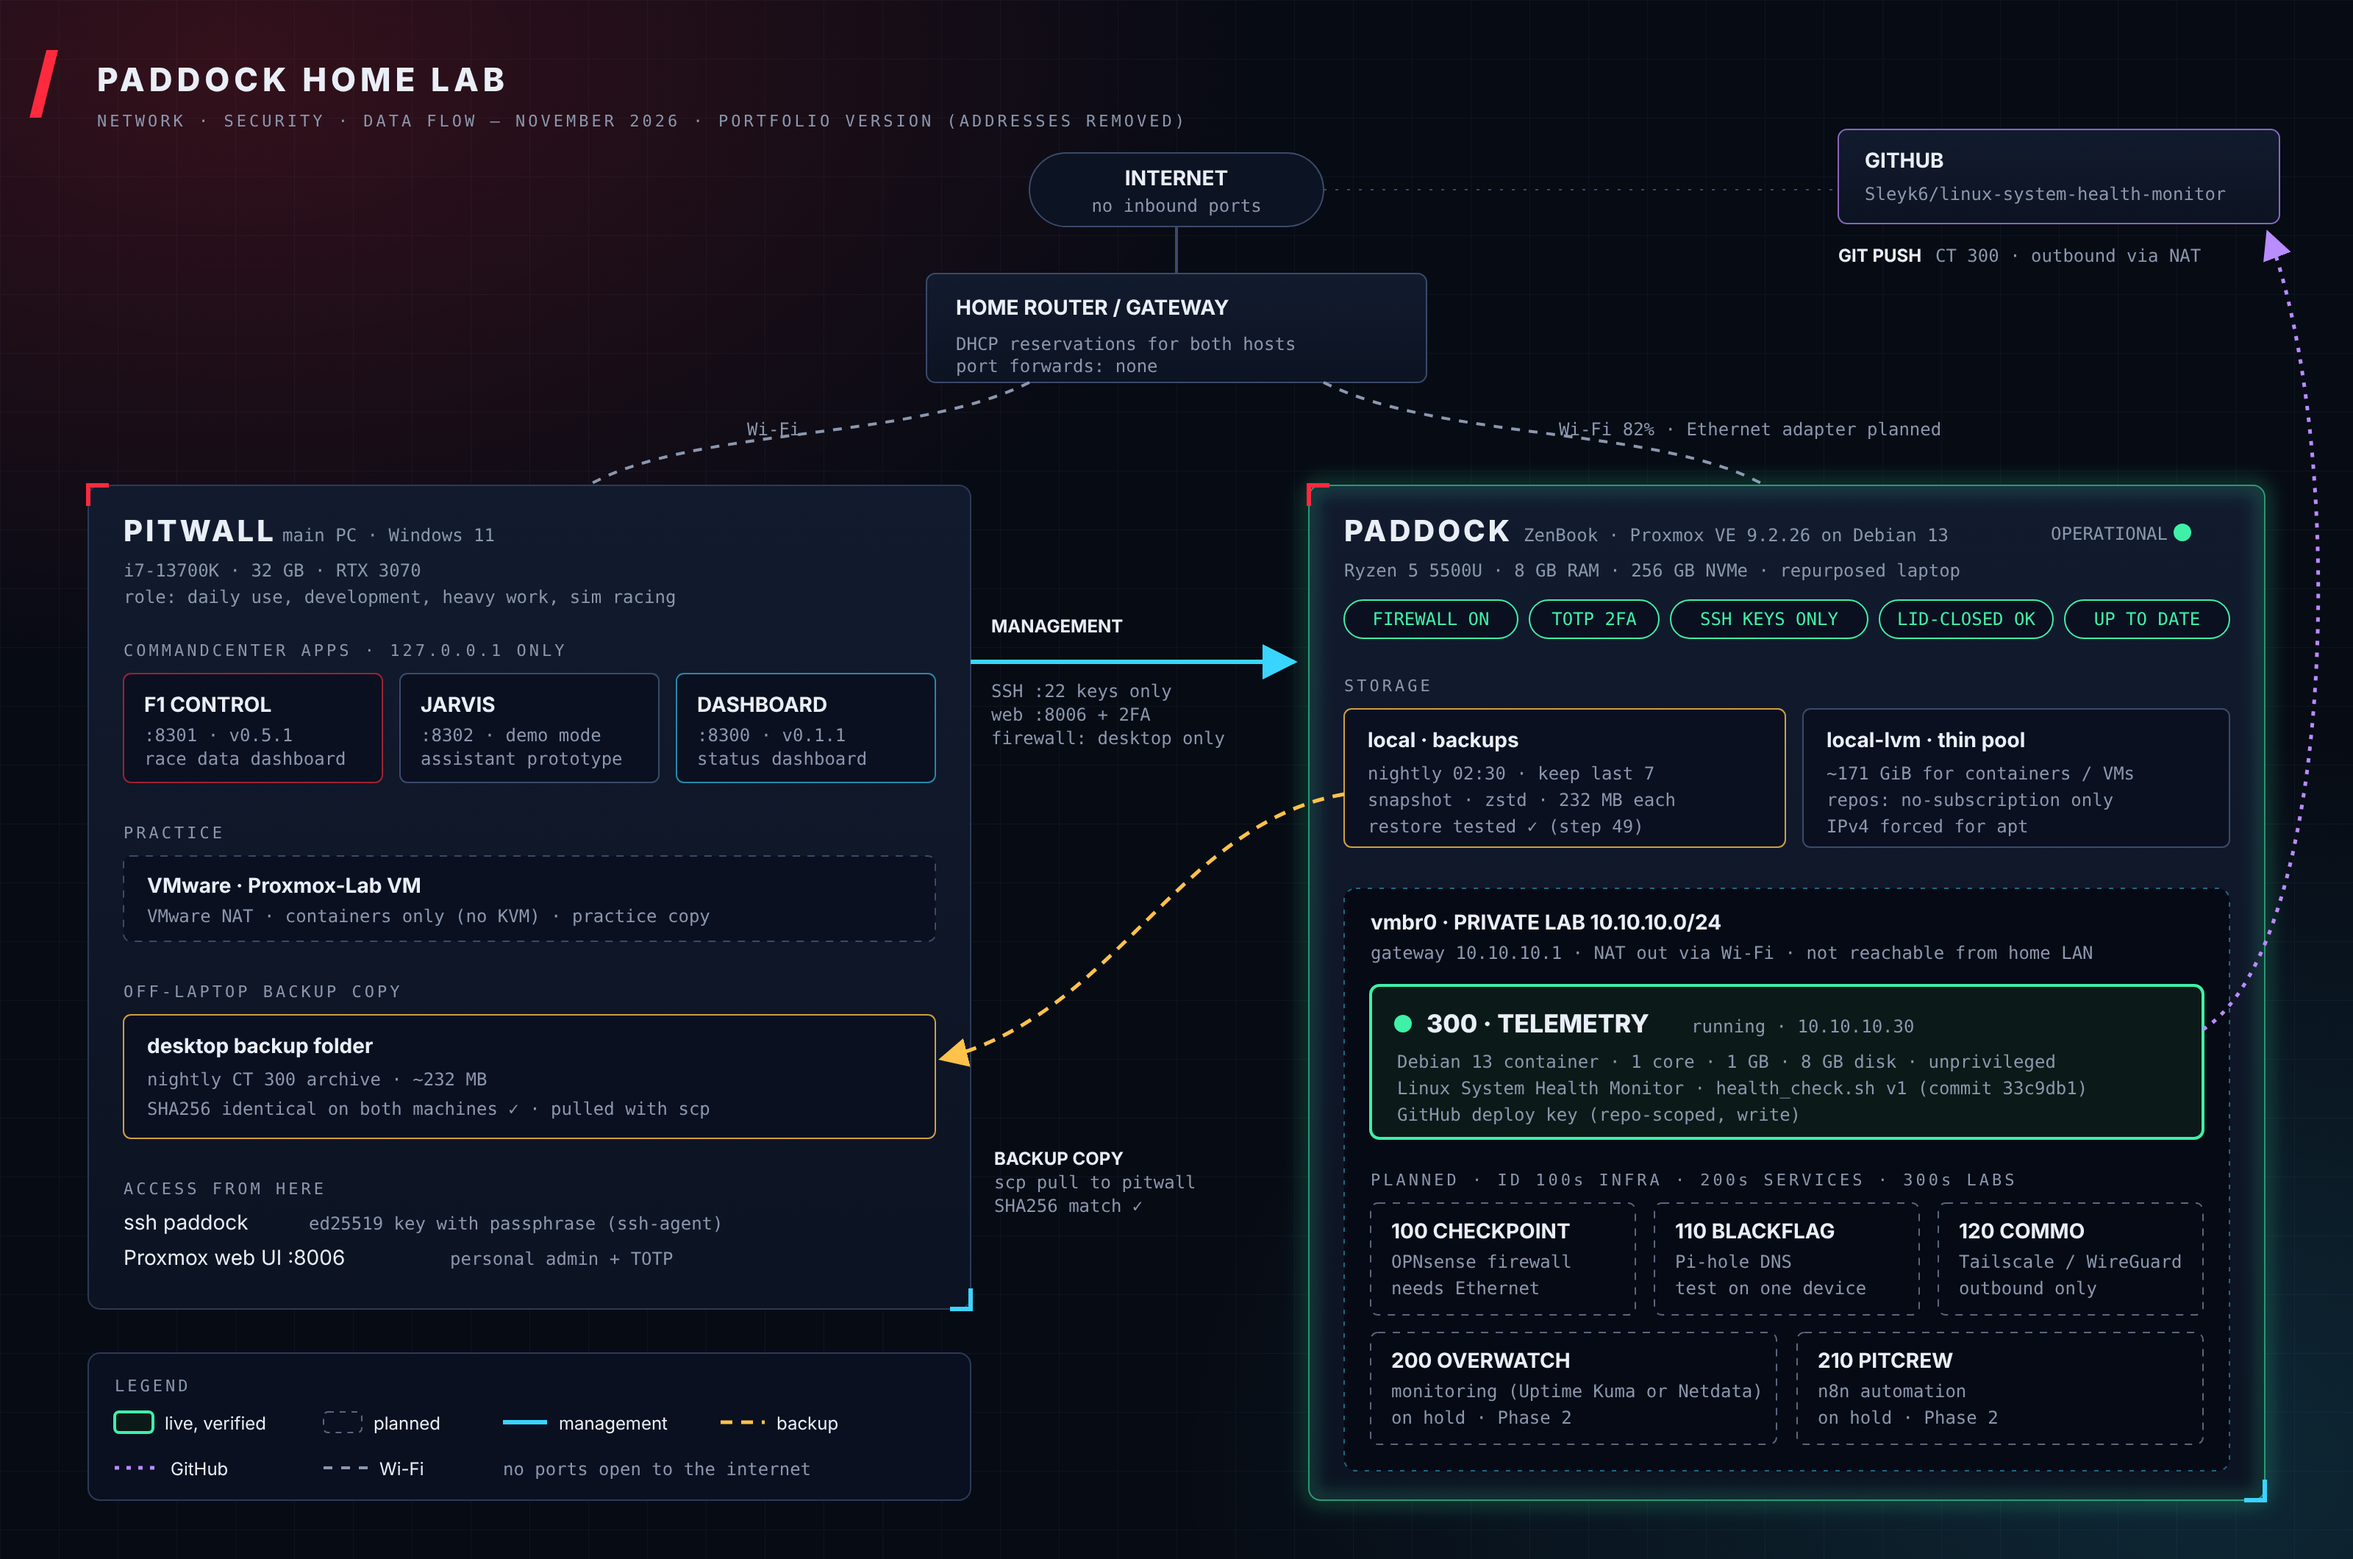
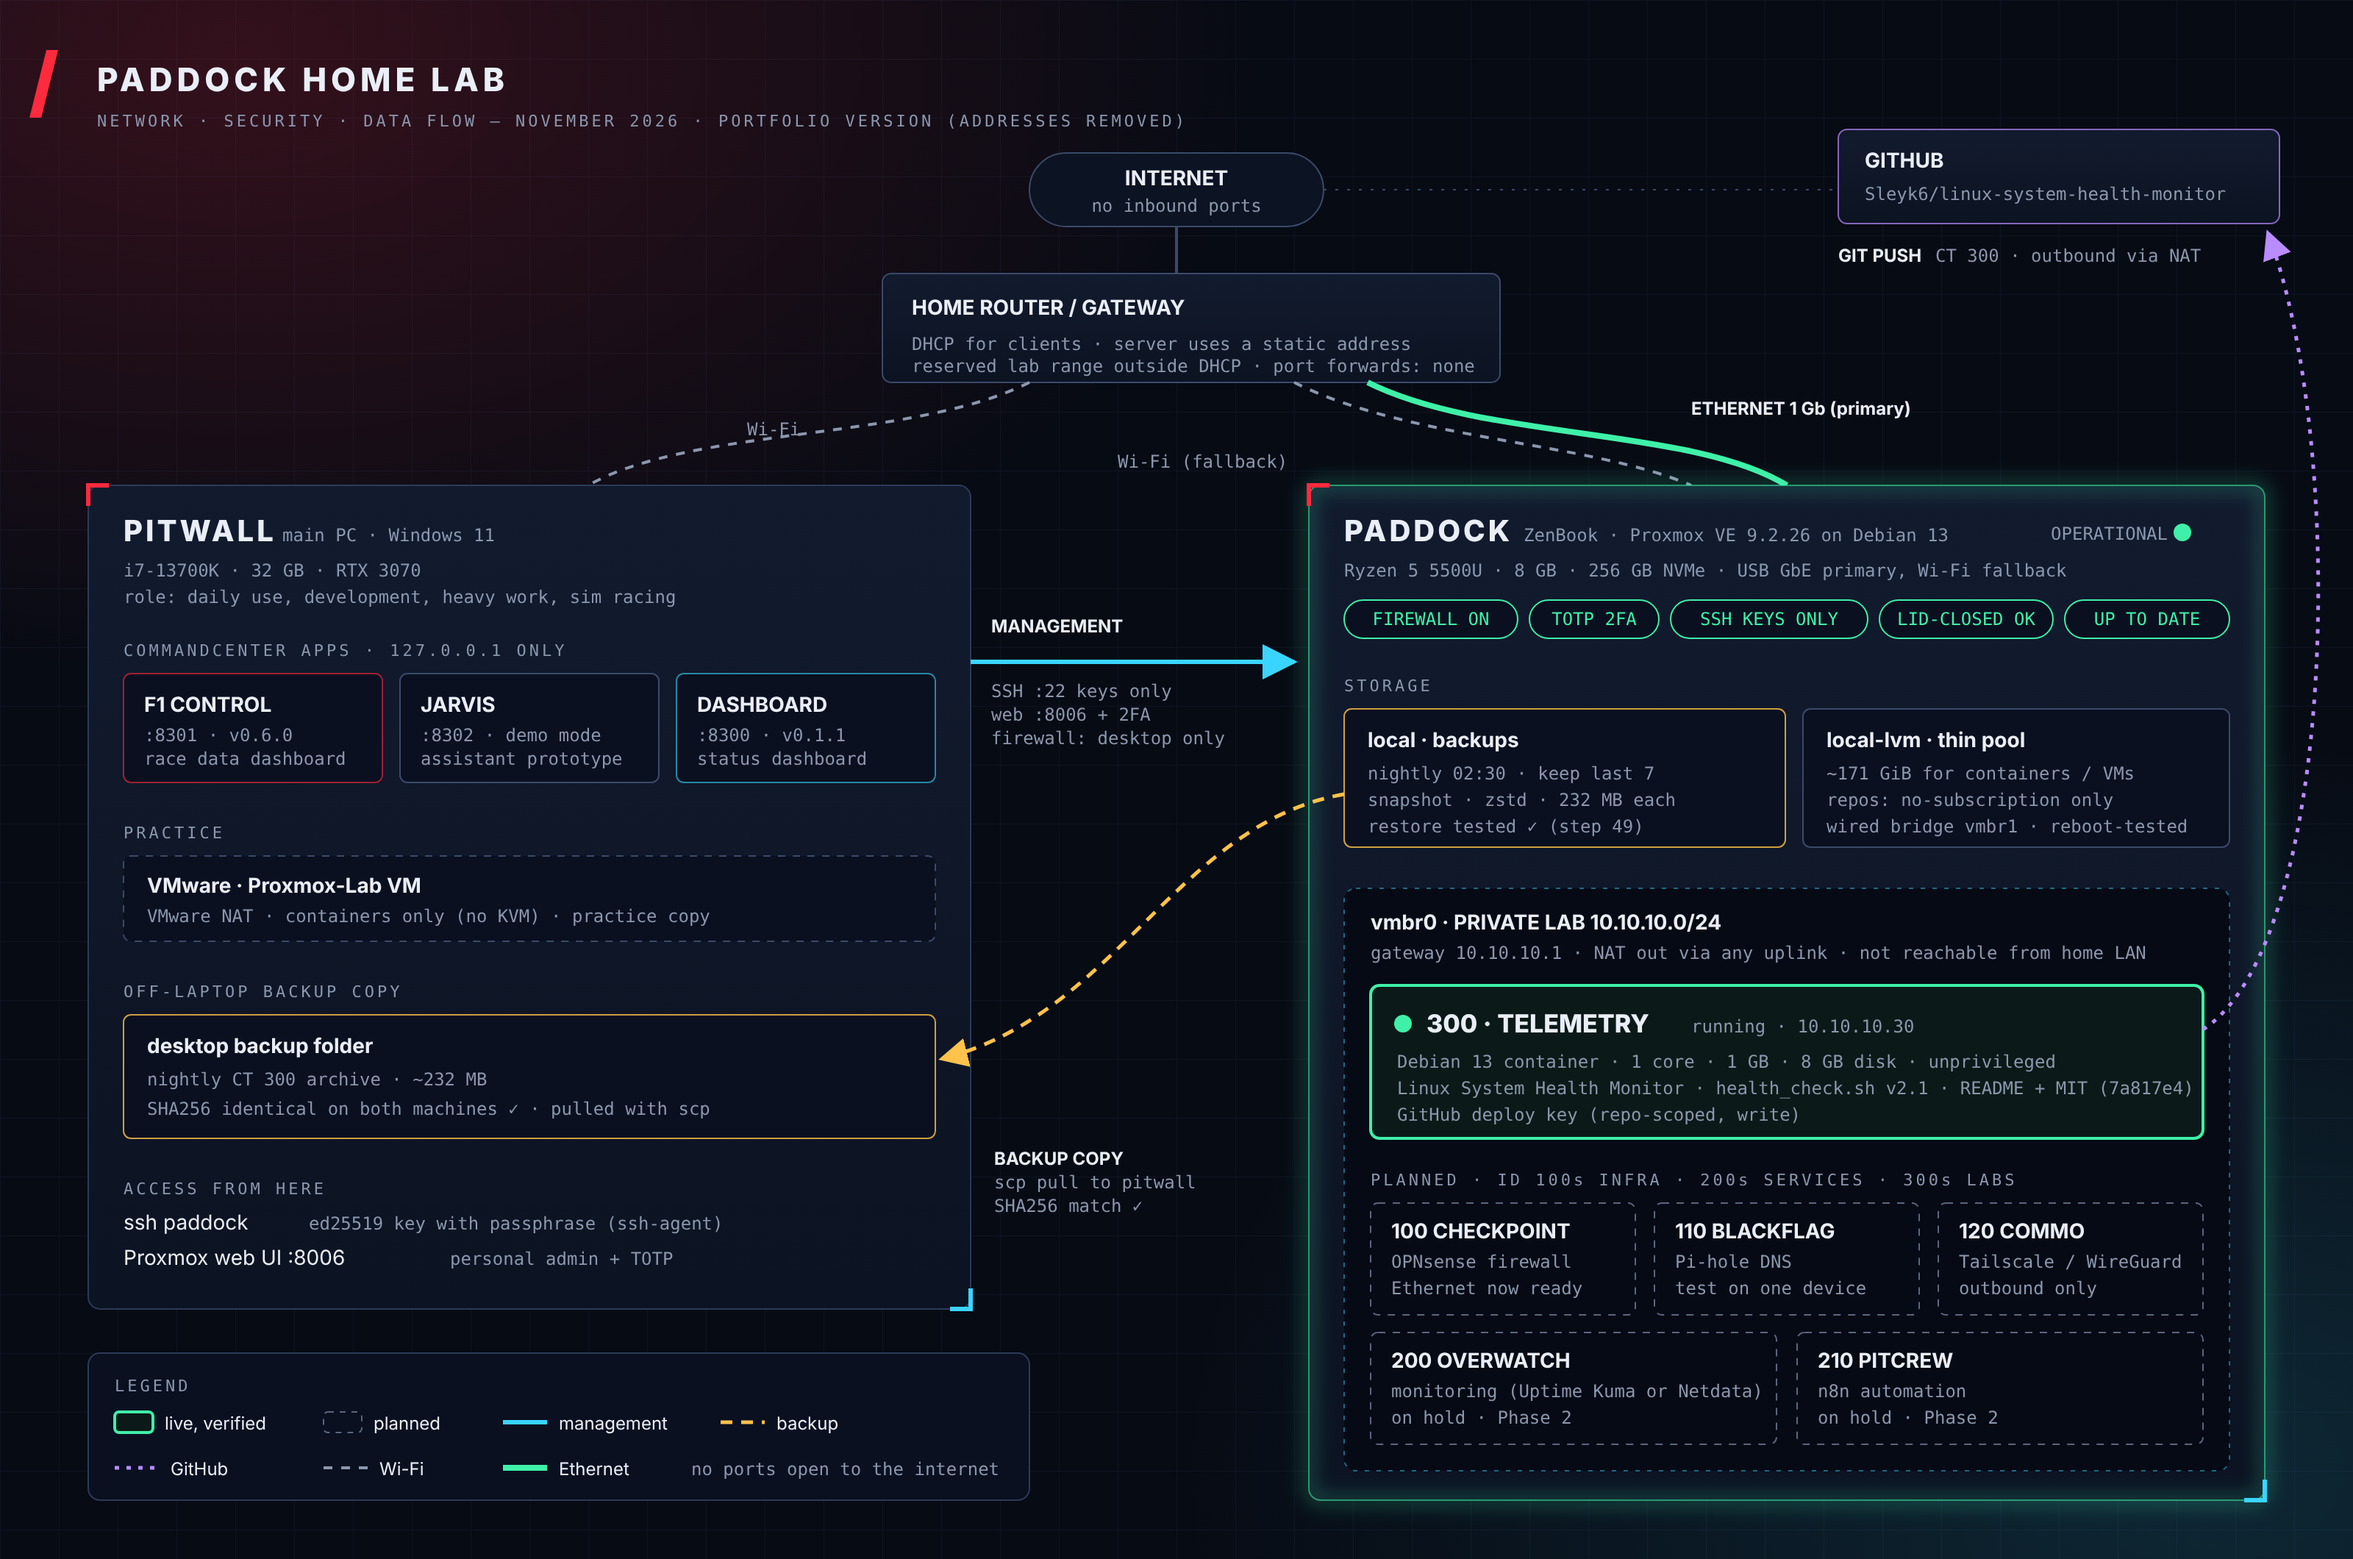
Phase 2: add wired Ethernet uplink, reboot test and two troubleshooting stories
- vmbr1 on USB GbE with static address outside DHCP, Wi-Fi fallback
- device-bound systemd unit; NAT rule now ! -o vmbr0
- architecture diagram updated (addresses removed)

Claude-Session: https://claude.ai/code/session_016nJnFyBvebFxKiAh2icacp

diff --git a/02-proxmox-homelab-server/README.md b/02-proxmox-homelab-server/README.md
@@ -10,7 +10,9 @@ Turn a spare laptop (Ryzen 5 5500U, 8 GB RAM, 256 GB NVMe) into a headless, secu
 |---|---|---|
 | OS + hypervisor | Debian 13 minimal install, then **Proxmox VE 9.2** on top (Proxmox kernel only, GRUB cleaned) | `pveversion`, `uname -r`, dashboard login |
 | Storage | LVM thin pool (~171 GiB) for containers and VMs | `pvesm status` |
-| Networking | Private lab bridge `vmbr0` (10.10.10.0/24) with NAT out over Wi-Fi; containers are not reachable from the home LAN | container ping through NAT; `ip -br a` |
+| Networking | Private lab bridge `vmbr0` (10.10.10.0/24) with NAT out of **any** uplink; containers are not reachable from the home LAN | container ping through NAT; `iptables -t nat -S` |
+| Wired uplink | USB gigabit Ethernet on bridge `vmbr1` with a **static address in a reserved range outside DHCP**; Wi-Fi kept as a fallback management path. A systemd unit bound to the adapter brings the bridge up whenever it appears | `ip -br a`, `ip route` (default via the wired bridge), container latency ~12 ms (was ~25 ms on Wi-Fi) |
+| Reboot resilience | Full reboot with no manual steps: both bridges up, container auto-starts with internet | reboot test passed on the second attempt (see story 6) |
 | Access | Personal Proxmox admin account with **TOTP 2FA**; root kept for emergencies | login test |
 | Firewall | Proxmox datacenter firewall **on**, default inbound DROP; SSH (22) and web UI (8006) allowed only from my desktop | SSH and UI work from the desktop; container traffic unaffected |
 | SSH | **Key-only** login (ed25519 key with passphrase, ssh-agent); passwords disabled | `sshd -T` shows `passwordauthentication no`; password attempt returns `Permission denied (publickey)` |
@@ -24,8 +26,8 @@ Turn a spare laptop (Ryzen 5 5500U, 8 GB RAM, 256 GB NVMe) into a headless, secu
 ## Skills practiced (CompTIA Linux+ / Security+ aligned)
 - Installation, partitioning (LVM), bootloader and kernel management (GRUB, `update-grub`)
 - Package management: APT sources (deb822), signing keys (keyring SHA256 check), forcing IPv4
-- systemd: services, `logind` drop-ins, `reload` vs `restart`
-- Networking: Linux bridges, IP forwarding, NAT (iptables MASQUERADE), static vs DHCP
+- systemd: services, `logind` drop-ins, `reload` vs `restart`, oneshot units bound to a device (`BindsTo=` a `.device` unit)
+- Networking: Linux bridges, IP forwarding, NAT (iptables MASQUERADE), static vs DHCP, default-route selection, reading a router's DHCP range before picking a static IP
 - Security: least privilege (sudo), MFA, host firewall allow-lists, SSH hardening, secrets hygiene
 - Virtualization: Proxmox LXC containers (`pct`, `pveam`), storage pools (`pvesm`)
 - Backup and recovery: `vzdump`, scheduled jobs, restore testing, integrity checks (SHA256)
@@ -37,12 +39,13 @@ Turn a spare laptop (Ryzen 5 5500U, 8 GB RAM, 256 GB NVMe) into a headless, secu
 3. **"Key is invalid" on GitHub.** I'd pasted the key's *fingerprint* instead of the public key, and a screenshot had overwritten the clipboard. Fixed by copying the one-line `ssh-ed25519 ...` key directly.
 4. **Wrong-machine commands.** I ran Windows commands in the Linux shell and the reverse. Learned to read the prompt (`PS C:\>` vs `user@host:~$`) before running anything, and to label every command with where it runs.
 5. **Hardening without lockout.** I disabled SSH passwords while keeping the existing session open, tested a fresh key login, then confirmed passwords were refused. The rollback was ready the whole time.
+6. **A reboot erased my network config.** After adding Ethernet, the first reboot test came up with no lab bridges and the container stopped. Root cause: earlier, the Proxmox web UI's network page had saved a pending `/etc/network/interfaces.new`, and Proxmox applies that file over the real one at boot, wiping every hand edit made since. Fixed by restoring from my backup and adding a device-triggered systemd unit for the USB adapter; the second reboot test passed. Lesson: pick one tool for network changes (I use SSH only) and always reboot-test.
+7. **Containers lost internet when the uplink changed.** The NAT rule was tied to the Wi-Fi interface (`-o <wifi-if>`), so when the default route moved to Ethernet, container traffic stopped being translated (DNS failures). Changed it to `! -o vmbr0` ("anything leaving the lab"), so NAT works over whichever uplink is active.
 
 ## Key commands
 See [build-steps.md](build-steps.md) for the full step-by-step build, including verification and rollback for each change.
 
 ## Next
-- Ethernet adapter; move management off Wi-Fi
 - Monitoring container (Uptime Kuma or Netdata), Pi-hole on one test device, Tailscale for remote access (no open ports)
 
 > Documentation drafted with AI assistance from my own build log; every command was run and verified by me.

diff --git a/02-proxmox-homelab-server/build-steps.md b/02-proxmox-homelab-server/build-steps.md
@@ -29,7 +29,7 @@ sudo lvcreate -l 95%FREE --thinpool data <vg>
 sudo pvesm add lvmthin local-lvm --vgname <vg> --thinpool data --content rootdir,images
 ```
 
-## 5. Private lab network (NAT over Wi-Fi)
+## 5. Private lab network (NAT out of any uplink)
 `/etc/network/interfaces` (backup first):
 ```
 auto vmbr0
@@ -39,9 +39,10 @@ iface vmbr0 inet static
         bridge-stp off
         bridge-fd 0
         post-up   echo 1 > /proc/sys/net/ipv4/ip_forward
-        post-up   iptables -t nat -A POSTROUTING -s 10.10.10.0/24 -o <wifi-if> -j MASQUERADE
-        post-down iptables -t nat -D POSTROUTING -s 10.10.10.0/24 -o <wifi-if> -j MASQUERADE
+        post-up   iptables -t nat -A POSTROUTING -s 10.10.10.0/24 ! -o vmbr0 -j MASQUERADE
+        post-down iptables -t nat -D POSTROUTING -s 10.10.10.0/24 ! -o vmbr0 -j MASQUERADE
 ```
+`! -o vmbr0` = translate anything leaving the lab, whichever uplink (Wi-Fi or Ethernet) carries it. The first version used `-o <wifi-if>` and broke when Ethernet became the default route.
 
 ## 6. Accounts, MFA, firewall
 - `sudo` for the admin user; a personal Proxmox admin (`pveum`) with **TOTP**. Recovery codes stored offline.
@@ -80,3 +81,39 @@ sudo pct restore 399 /var/lib/vz/dump/<archive>.tar.zst --storage local-lvm --ho
 sudo pct destroy 399 --purge
 ```
 Desktop (PowerShell): `scp` the newest archive, then compare `sha256sum` on the server with `Get-FileHash` on Windows. They match.
+
+## 11. Wired uplink (USB gigabit Ethernet)
+- Identified the adapter (`ip -br link`, `ethtool`, driver `cdc_ncm`), confirmed link at 1000 Mb/s.
+- Read the router's DHCP range first, then chose a static address in a reserved range **outside** it, after an ARP check that it was free.
+
+`/etc/network/interfaces` (backup first; no `auto` line, the unit below brings it up):
+```
+iface vmbr1 inet static
+        address <lan-ip>/24
+        gateway <router-ip>
+        bridge-ports <usb-nic>
+        bridge-stp off
+        bridge-fd 0
+```
+`/etc/systemd/system/paddock-usb-eth.service`:
+```
+[Unit]
+Description=Bring up vmbr1 when the USB Ethernet adapter appears
+BindsTo=sys-subsystem-net-devices-<usb-nic>.device
+After=sys-subsystem-net-devices-<usb-nic>.device networking.service
+
+[Service]
+Type=oneshot
+RemainAfterExit=yes
+ExecStart=/usr/sbin/ifup vmbr1
+
+[Install]
+WantedBy=sys-subsystem-net-devices-<usb-nic>.device
+```
+```bash
+sudo systemctl daemon-reload && sudo systemctl enable --now paddock-usb-eth
+```
+Verify: `systemctl status paddock-usb-eth` = active (exited), status=0/SUCCESS; `ip route` default via `vmbr1`; a full **reboot test** brings everything back with no manual steps. Desktop `~/.ssh/config` points `paddock` at the wired address and keeps a `paddock-wifi` alias as a fallback.
+Rollback: `sudo systemctl disable --now paddock-usb-eth`, restore the interfaces backup.
+
+> Never edit host networking in the Proxmox web UI *and* by hand: the UI saves `/etc/network/interfaces.new`, which replaces the real file at the next boot.

diff --git a/README.md b/README.md
@@ -4,4 +4,4 @@ Hands-on Linux systems administration lab covering configuration, networking, sy
 | Phase | Topic | Status |
 |---|---|---|
 | [01](01-linux-environment/) | Building and configuring a Linux environment | in progress |
-| [02](02-proxmox-homelab-server/) | Repurposing a laptop into a hardened Proxmox VE server | complete |
+| [02](02-proxmox-homelab-server/) | Repurposing a laptop into a hardened Proxmox VE server (wired, reboot-tested) | complete |
